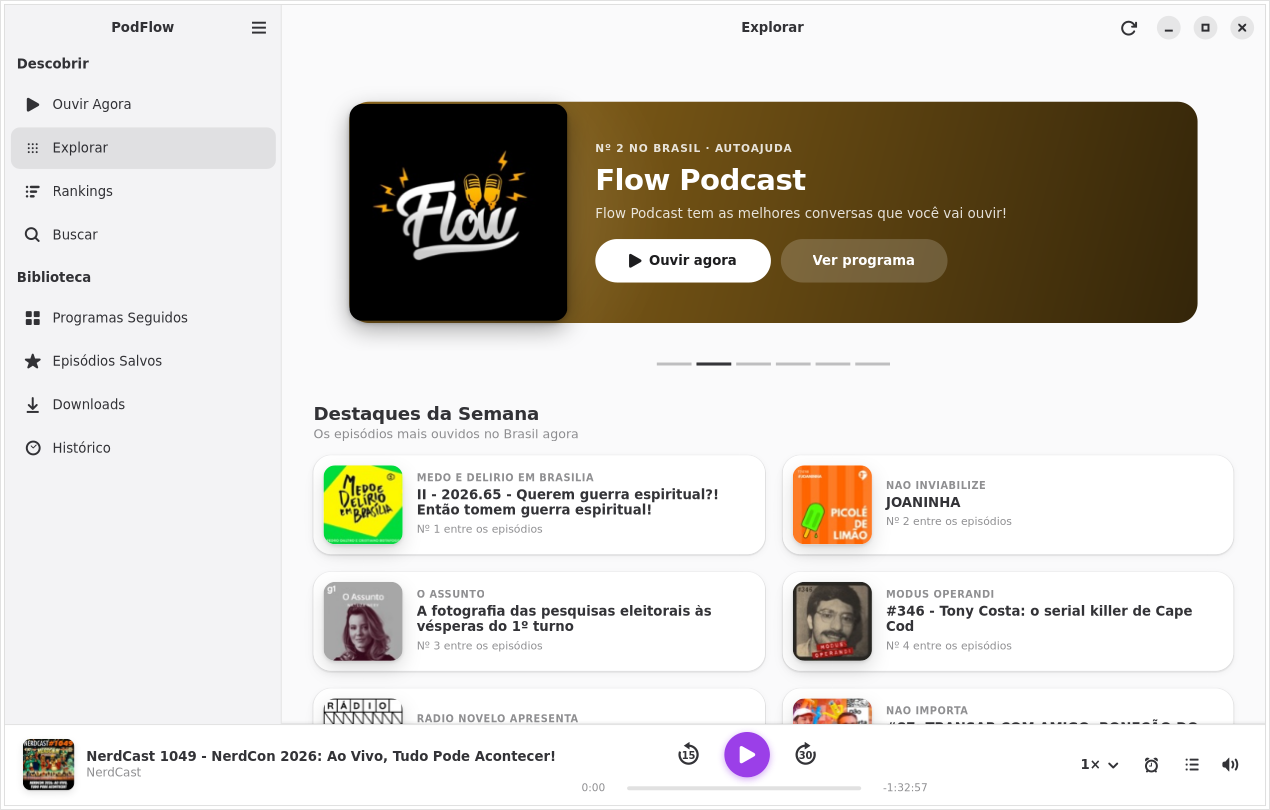
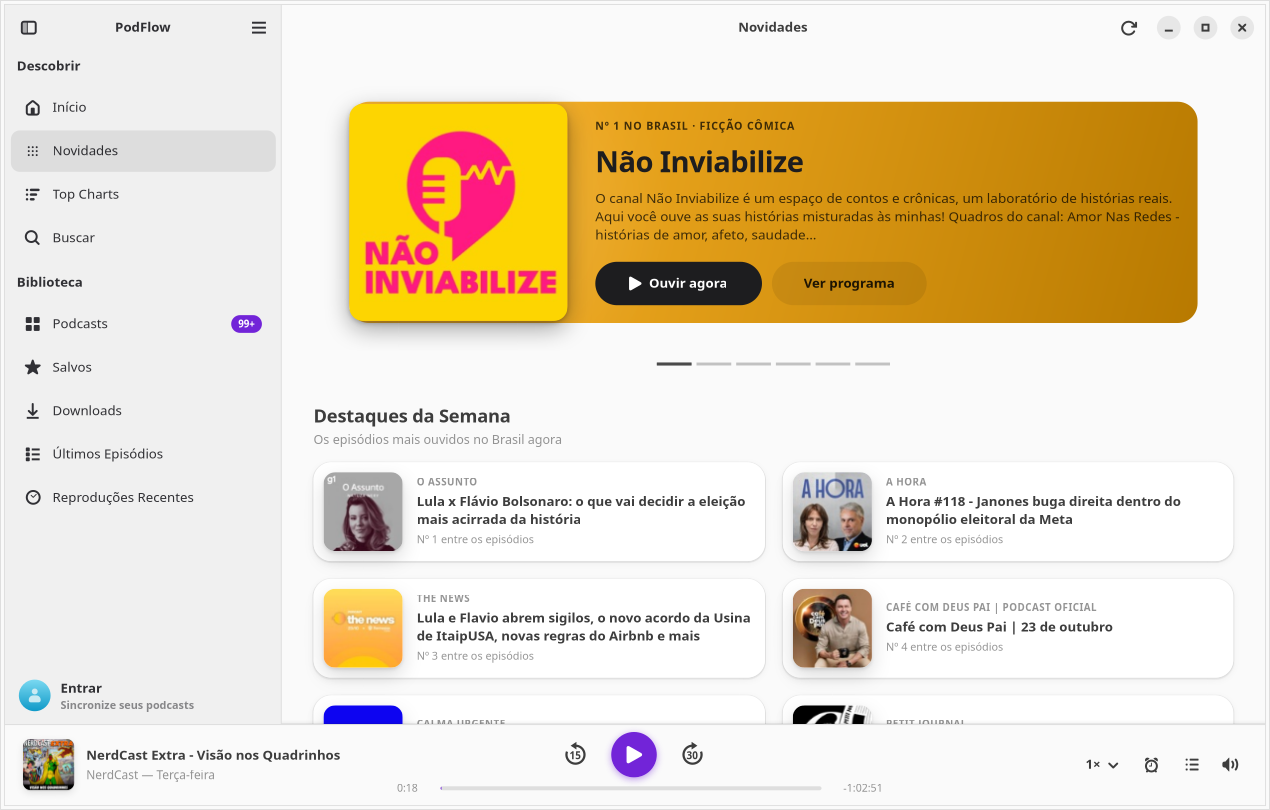
release: PodFlow 0.4.0 com telas, loja e site atualizados
- Versão 0.4.0 com notas no metainfo e no CHANGELOG.
- Screenshots (claro, escuro e estreito) e imagens da Snap Store
  regeneradas com o novo layout.
- README e site usam os novos nomes das seções (Início, Novidades,
  Top Charts) e o .deb da 0.4.0.
- make test/smoke/screenshots rodam com GTK_A11Y=none: os testes não
  dependem do barramento de acessibilidade, que falha em sessões sem
  systemd do usuário.

diff --git a/website/index.html b/website/index.html
@@ -41,7 +41,7 @@
           <img class="hero-icon" src="assets/icon.svg" alt="Ícone do PodFlow" width="112" height="112">
           <h1>Os podcasts do Brasil, do jeito do GNOME.</h1>
           <p class="lead">
-            Rankings, novidades e os seus programas favoritos num app nativo para Linux,
+            Top Charts, novidades e os seus podcasts favoritos num app nativo para Linux,
             leve e bonito. Gratuito, de código aberto e sem anúncios.
           </p>
           <div class="actions">
@@ -56,7 +56,7 @@
         </div>
         <picture class="shot hero-shot">
           <source srcset="screenshots/explore.png" media="(prefers-color-scheme: dark)">
-          <img src="screenshots/explore-light.png" alt="Tela Explorar do PodFlow com destaques da semana" width="1270" height="810">
+          <img src="screenshots/explore-light.png" alt="Tela Novidades do PodFlow com destaques da semana" width="1270" height="810">
         </picture>
       </div>
     </section>
@@ -68,17 +68,17 @@
         <div class="grid">
           <article class="card">
             <svg class="glyph" viewBox="0 0 24 24" aria-hidden="true"><path d="M5 20V11M12 20V4M19 20v-6"/></svg>
-            <h3>Rankings do Brasil</h3>
+            <h3>Top Charts do Brasil</h3>
             <p>Top Podcasts e Top Episódios, de 1 a 50, com filtro por categoria e atualizados todos os dias.</p>
           </article>
           <article class="card">
             <svg class="glyph" viewBox="0 0 24 24" aria-hidden="true"><path d="M12 3l2.3 5.7L20 11l-5.7 2.3L12 19l-2.3-5.7L4 11l5.7-2.3z"/></svg>
-            <h3>Explorar</h3>
+            <h3>Novidades</h3>
             <p>Destaques da semana com as cores de cada capa, “Em Alta” e prateleiras por gênero.</p>
           </article>
           <article class="card">
             <svg class="glyph" viewBox="0 0 24 24" aria-hidden="true"><circle cx="12" cy="12" r="9"/><path d="M10 8.5v7l6-3.5z"/></svg>
-            <h3>Ouvir Agora</h3>
+            <h3>Início</h3>
             <p>Continue de onde parou, monte a fila A Seguir e veja os episódios novos de quem você segue.</p>
           </article>
           <article class="card">
@@ -89,7 +89,7 @@
           <article class="card">
             <svg class="glyph" viewBox="0 0 24 24" aria-hidden="true"><path d="M12 4v11M7 10l5 5 5-5M5 20h14"/></svg>
             <h3>Funciona offline</h3>
-            <p>Baixe episódios para ouvir sem internet. Rankings e capas ficam em cache.</p>
+            <p>Baixe episódios para ouvir sem internet. Top Charts e capas ficam em cache.</p>
           </article>
           <article class="card">
             <svg class="glyph" viewBox="0 0 24 24" aria-hidden="true"><rect x="3" y="4" width="18" height="12" rx="2"/><path d="M8 20h8M12 16v4"/></svg>
@@ -133,14 +133,14 @@
           </figure>
           <figure>
             <img src="screenshots/charts.png" alt="Ranking dos podcasts mais ouvidos no Brasil" width="1270" height="810" loading="lazy">
-            <figcaption>Rankings</figcaption>
+            <figcaption>Top Charts</figcaption>
           </figure>
           <figure>
-            <img src="screenshots/listen-now.png" alt="Ouvir Agora com Continuar Ouvindo" width="1270" height="810" loading="lazy">
-            <figcaption>Ouvir Agora</figcaption>
+            <img src="screenshots/listen-now.png" alt="Início com Continuar Ouvindo e a fila A Seguir" width="1270" height="810" loading="lazy">
+            <figcaption>Início</figcaption>
           </figure>
           <figure>
-            <img src="screenshots/library.png" alt="Biblioteca com os programas seguidos" width="1270" height="810" loading="lazy">
+            <img src="screenshots/library.png" alt="Biblioteca com os podcasts seguidos" width="1270" height="810" loading="lazy">
             <figcaption>Biblioteca</figcaption>
           </figure>
         </div>

diff --git a/src/config.py b/src/config.py
@@ -9,7 +9,7 @@ from gi.repository import GLib
 
 APP_ID = "io.github.euvinicios.PodFlow"
 APP_NAME = "PodFlow"
-VERSION = "0.3.0"
+VERSION = "0.4.0"
 GETTEXT_DOMAIN = "podflow"
 DEVELOPER = "EuVinicios"
 WEBSITE = "https://euvinicios.github.io/Linux-Podcast/"

diff --git a/README.md b/README.md
@@ -19,7 +19,7 @@ Apple Podcasts Brasil ([/charts](https://podcasts.apple.com/br/charts) e
 [![Release](https://img.shields.io/github/v/release/EuVinicios/Linux-Podcast?label=download)](https://github.com/EuVinicios/Linux-Podcast/releases/latest)
 [![Licença: GPL v3+](https://img.shields.io/badge/licen%C3%A7a-GPL--3.0--or--later-blue)](LICENSE)
 
-<img src="data/screenshots/explore.png" alt="Tela Explorar do PodFlow" width="860">
+<img src="data/screenshots/explore.png" alt="Tela Novidades do PodFlow" width="860">
 
 </div>
 
@@ -72,12 +72,12 @@ sudo snap connect podflow:password-manager-service   # opcional: senha da sincro
 O `.deb` usa o GTK, a Libadwaita e o GStreamer do próprio sistema, por isso é leve (≈ 80 KB) e se
 integra perfeitamente ao Ubuntu.
 
-1. Baixe `podflow_0.3.0_all.deb` na página de
+1. Baixe `podflow_0.4.0_all.deb` na página de
    [**Releases**](https://github.com/EuVinicios/Linux-Podcast/releases/latest).
 2. Instale pelo terminal, na pasta do download:
 
    ```bash
-   sudo apt install ./podflow_0.3.0_all.deb
+   sudo apt install ./podflow_0.4.0_all.deb
    ```
 
 3. Abra **PodFlow** no menu de aplicativos.
@@ -222,7 +222,7 @@ Followed shows and episode progress can optionally be synced with gpodder.net, N
 (GPodder Sync) or any gPodder-compatible server, so it plays along with AntennaPod and Kasts.
 
 Install it from the Ubuntu App Center (`sudo snap install podflow`) or, on Ubuntu 26.04+, with the
-`.deb` (`sudo apt install ./podflow_0.3.0_all.deb`) from the
+`.deb` (`sudo apt install ./podflow_0.4.0_all.deb`) from the
 [Releases page](https://github.com/EuVinicios/Linux-Podcast/releases/latest).
 Website: <https://euvinicios.github.io/Linux-Podcast/>.
 Licensed under GPL-3.0-or-later. Not affiliated with Apple Inc.

diff --git a/CHANGELOG.md b/CHANGELOG.md
@@ -4,7 +4,7 @@ Todas as mudanças relevantes do PodFlow são registradas aqui.
 O formato segue o [Keep a Changelog](https://keepachangelog.com/pt-BR/1.1.0/) e o projeto usa
 [versionamento semântico](https://semver.org/lang/pt-BR/).
 
-## [Não lançado]
+## [0.4.0] - 2026-10-23
 
 Layout mais próximo do Apple Podcasts para macOS, guiado por engenharia reversa (REA) do
 Podcasts.app do macOS 27: strings em pt-BR, tipos das telas e o catálogo de cores do app.
@@ -99,6 +99,7 @@ Primeira versão pública. 🎉
 - Busca no catálogo da Apple e adição de podcasts por URL de feed RSS.
 - Pacotes `.deb` (Ubuntu 26.04+) e Flatpak (GNOME 50) gerados automaticamente no GitHub Actions.
 
+[0.4.0]: https://github.com/EuVinicios/Linux-Podcast/releases/tag/v0.4.0
 [0.3.0]: https://github.com/EuVinicios/Linux-Podcast/releases/tag/v0.3.0
 [0.2.0]: https://github.com/EuVinicios/Linux-Podcast/releases/tag/v0.2.0
 [0.1.0]: https://github.com/EuVinicios/Linux-Podcast/releases/tag/v0.1.0
